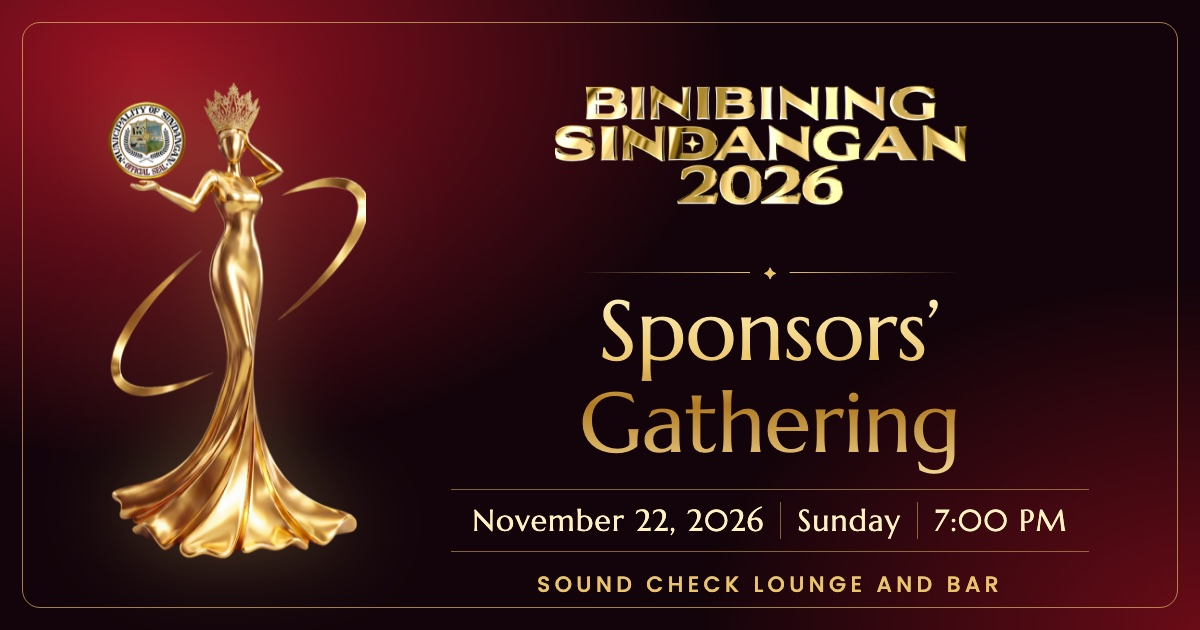
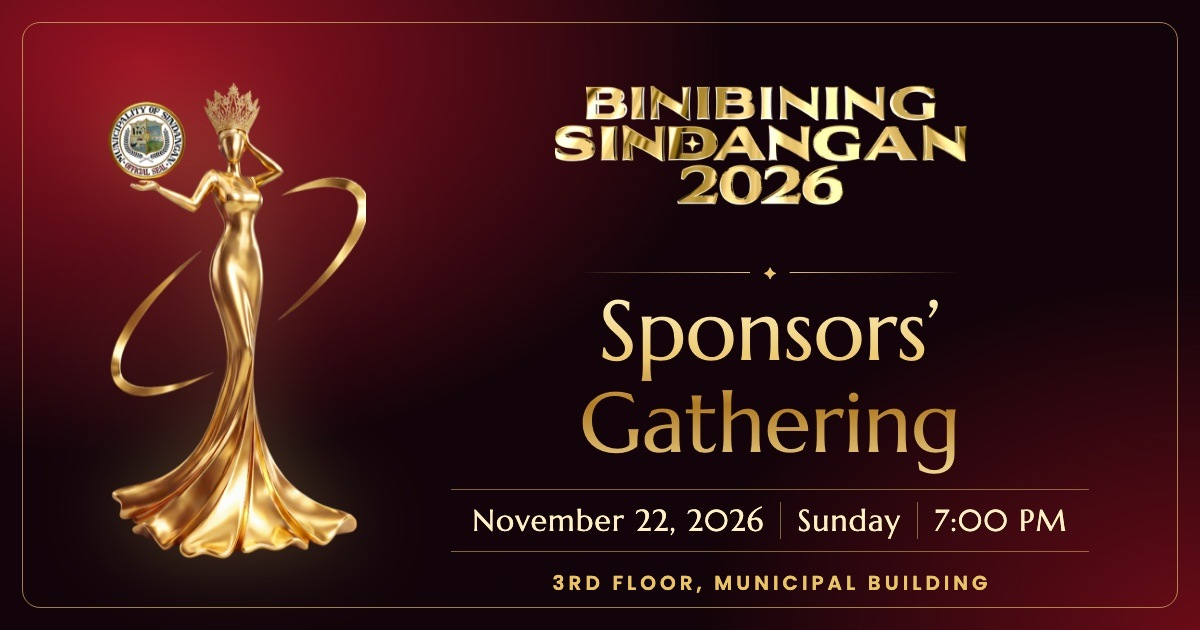
Move the Sponsors' Gathering to the Municipal Building
The venue is now the 3rd Floor, Municipal Building (beside the Mayor's
Office), Sindangan, replacing Sound Check Lounge and Bar.

Updates the Event Details card, the Google Calendar link and the
downloaded calendar file, the link preview text, and the venue line
printed on the share image. The share image URL gets ?v=2 so new shares
fetch the updated picture instead of a cached copy.

Changed region(s): [[0.4317, 0.9048, 0.8325, 0.9349]]

diff --git a/index.html b/index.html
@@ -4,7 +4,7 @@
   <meta charset="utf-8">
   <meta name="viewport" content="width=device-width, initial-scale=1, viewport-fit=cover">
   <title>Sponsors' Gathering | Binibining Sindangan 2026</title>
-  <meta name="description" content="You are cordially invited to the Binibining Sindangan 2026 Sponsors' Meeting and Fellowship with Hon. Glona G. Labadlabad, Municipal Mayor of Sindangan. November 22, 2026, 7:00 PM at Sound Check Lounge and Bar.">
+  <meta name="description" content="You are cordially invited to the Binibining Sindangan 2026 Sponsors' Meeting and Fellowship with Hon. Glona G. Labadlabad, Municipal Mayor of Sindangan. November 22, 2026, 7:00 PM at the 3rd Floor, Municipal Building (beside the Mayor’s Office), Sindangan.">
   <meta name="theme-color" content="#1a0508">
 
   <link rel="canonical" href="https://binibining-sindangan.everafterweddingsandevent.com/">
@@ -15,17 +15,17 @@
   <meta property="og:locale" content="en_PH">
   <meta property="og:url" content="https://binibining-sindangan.everafterweddingsandevent.com/">
   <meta property="og:title" content="You're Invited: Sponsors' Gathering | Binibining Sindangan 2026">
-  <meta property="og:description" content="Join us for an exclusive Sponsors' Meeting and Fellowship with Hon. Glona G. Labadlabad, Municipal Mayor of Sindangan. November 22, 2026 (Sunday), 7:00 PM at Sound Check Lounge and Bar. Tap to view the invitation and RSVP.">
-  <meta property="og:image" content="https://binibining-sindangan.everafterweddingsandevent.com/assets/share.jpg">
-  <meta property="og:image:secure_url" content="https://binibining-sindangan.everafterweddingsandevent.com/assets/share.jpg">
+  <meta property="og:description" content="Join us for an exclusive Sponsors' Meeting and Fellowship with Hon. Glona G. Labadlabad, Municipal Mayor of Sindangan. November 22, 2026 (Sunday), 7:00 PM at the 3rd Floor, Municipal Building (beside the Mayor’s Office), Sindangan. Tap to view the invitation and RSVP.">
+  <meta property="og:image" content="https://binibining-sindangan.everafterweddingsandevent.com/assets/share.jpg?v=2">
+  <meta property="og:image:secure_url" content="https://binibining-sindangan.everafterweddingsandevent.com/assets/share.jpg?v=2">
   <meta property="og:image:type" content="image/jpeg">
   <meta property="og:image:width" content="1200">
   <meta property="og:image:height" content="630">
-  <meta property="og:image:alt" content="Binibining Sindangan 2026 Sponsors' Gathering, November 22, 2026, Sunday, 7:00 PM, Sound Check Lounge and Bar">
+  <meta property="og:image:alt" content="Binibining Sindangan 2026 Sponsors' Gathering, November 22, 2026, Sunday, 7:00 PM, 3rd Floor, Municipal Building">
   <meta name="twitter:card" content="summary_large_image">
   <meta name="twitter:title" content="You're Invited: Sponsors' Gathering | Binibining Sindangan 2026">
-  <meta name="twitter:description" content="Join us for an exclusive Sponsors' Meeting and Fellowship with Hon. Glona G. Labadlabad, Municipal Mayor of Sindangan. November 22, 2026 (Sunday), 7:00 PM at Sound Check Lounge and Bar. Tap to view the invitation and RSVP.">
-  <meta name="twitter:image" content="https://binibining-sindangan.everafterweddingsandevent.com/assets/share.jpg">
+  <meta name="twitter:description" content="Join us for an exclusive Sponsors' Meeting and Fellowship with Hon. Glona G. Labadlabad, Municipal Mayor of Sindangan. November 22, 2026 (Sunday), 7:00 PM at the 3rd Floor, Municipal Building (beside the Mayor’s Office), Sindangan. Tap to view the invitation and RSVP.">
+  <meta name="twitter:image" content="https://binibining-sindangan.everafterweddingsandevent.com/assets/share.jpg?v=2">
 
   <link rel="icon" type="image/png" href="assets/icon.png">
   <link rel="apple-touch-icon" href="assets/icon.png">
@@ -117,8 +117,8 @@
         </div>
         <div class="card reveal">
           <p class="card__label">Venue</p>
-          <p class="card__value">Sound Check Lounge and Bar</p>
-          <p class="card__note">Sindangan, Zamboanga del Norte</p>
+          <p class="card__value">3rd Floor, Municipal Building</p>
+          <p class="card__note">Beside the Mayor’s Office<br>Sindangan, Zamboanga del Norte</p>
         </div>
         <div class="card reveal">
           <p class="card__label">With</p>
@@ -227,6 +227,6 @@
     <span class="music__bars" aria-hidden="true"><i></i><i></i><i></i><i></i></span>
   </button>
 
-  <script src="script.js?v=7" defer></script>
+  <script src="script.js?v=8" defer></script>
 </body>
 </html>

diff --git a/script.js b/script.js
@@ -13,7 +13,7 @@ const EVENT = {
   title: "Sponsors' Gathering | Binibining Sindangan 2026",
   start: "2026-11-22T19:00:00+08:00", // 7:00 PM Philippine Time
   end: "2026-11-22T22:00:00+08:00",   // assumed 3 hours; adjust if needed
-  location: "Sound Check Lounge and Bar, Sindangan, Zamboanga del Norte",
+  location: "3rd Floor, Municipal Building (beside the Mayor's Office), Sindangan, Zamboanga del Norte",
   description:
     "Sponsors' Meeting and Fellowship with Hon. Glona G. Labadlabad, Municipal Mayor of Sindangan.\n" +
     "Hosted by the Local Government of Sindangan and the Binibining Sindangan 2026 Committee.\n" +
@@ -434,7 +434,7 @@ const root = document.documentElement;
 
   function emailFallback(data) {
     const body = [
-      "RSVP for the Sponsors' Gathering (November 22, 2026, 7:00 PM, Sound Check Lounge and Bar)",
+      "RSVP for the Sponsors' Gathering (November 22, 2026, 7:00 PM, 3rd Floor, Municipal Building, Sindangan)",
       "",
       "Name: " + data.name,
       "Company / Organization: " + data.company,
